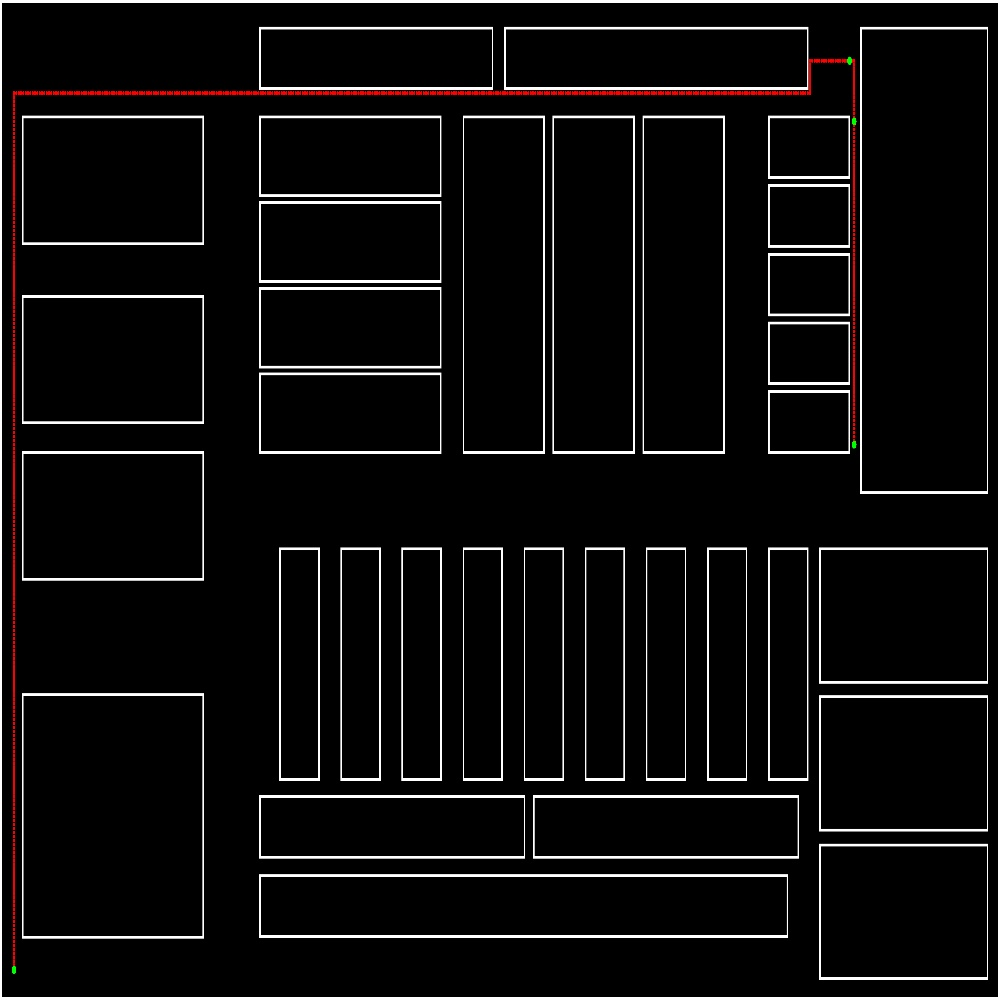
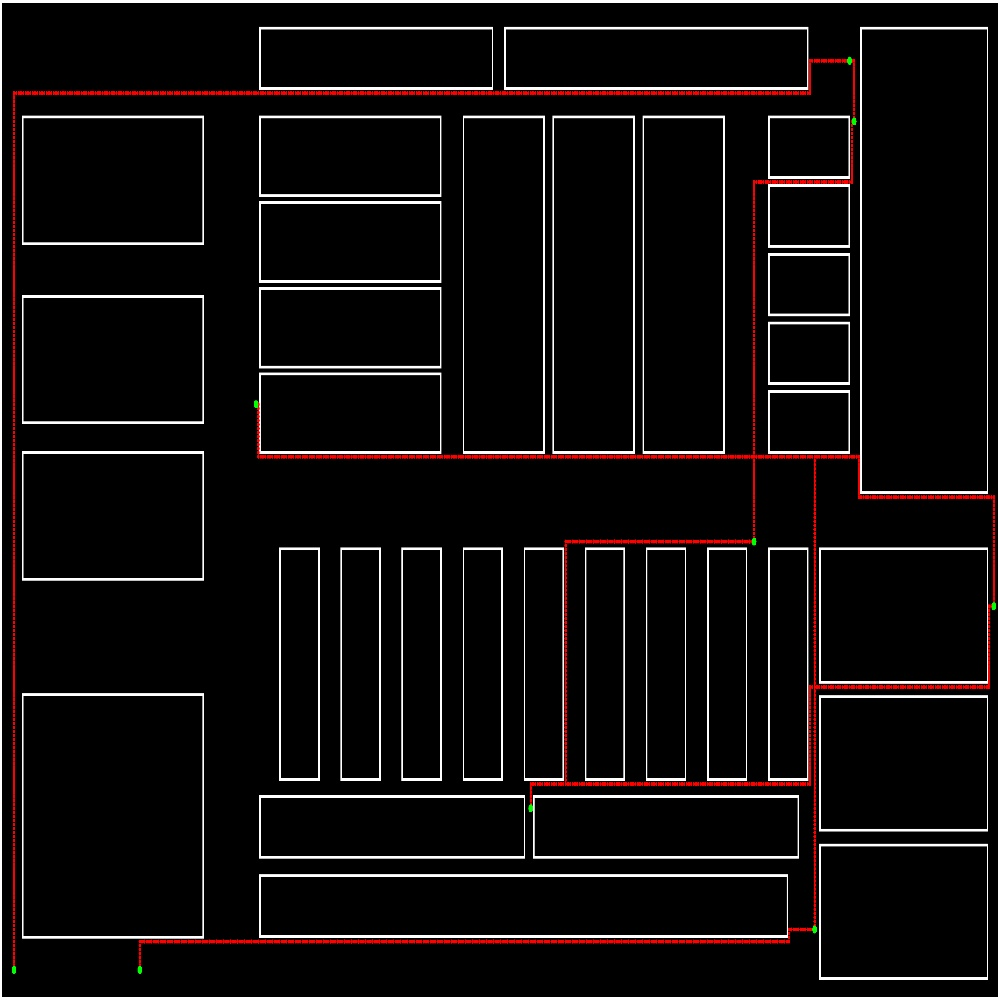
とりあえず完成

Changed region(s): [[0.248, 0.124, 0.992, 0.93], [0.124, 0.93, 0.806, 0.961], [0.868, 0.496, 1.0, 0.62]]

diff --git a/route_test3.py b/route_test3.py
@@ -3,6 +3,8 @@ import numpy as np
 import pandas as pd
 import heapq
 from PIL import Image
+import tkinter as tk
+from tkinter import messagebox
 
 # ExcelファイルからStartとGoalの座標を取得する関数
 def read_coordinates_from_excel(file_path):
@@ -112,6 +114,13 @@ for i in range(len(coordinates) - 1):
         # 出発点とゴール点を描画
         cv2.circle(color_image, (start[1], start[0]), 10, (0, 255, 0), -1)  # 緑色の点
         cv2.circle(color_image, (goal[1], goal[0]), 10, (0, 255, 0), -1)  # 緑色の点
+
+    else:
+        # 最短経路が見つからなかった場合、メッセージボックスで警告
+        root = tk.Tk()
+        root.withdraw()  # ウィンドウを表示せずにメッセージボックスのみ表示
+        messagebox.showerror("エラー", f"最短経路の算出に失敗しました\nStart: {start} -> Goal: {goal}")
+        root.destroy()
 
 # 結果の画像をリサイズして表示する
 resized_image = cv2.resize(color_image, (1000, 1000))  # 画像を1000x1000にリサイズ（必要に応じて調整）
